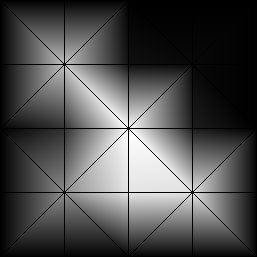
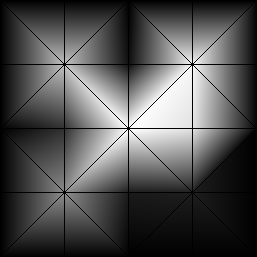
Adding EdgeSplitters

diff --git a/src/main/java/com/tgelder/downhill/Mesh.java b/src/main/java/com/tgelder/downhill/Mesh.java
@@ -1,13 +1,13 @@
 package com.tgelder.downhill;
 
-import java.util.Random;
+import com.tgelder.downhill.edgesplitters.EdgeSplitter;
 
 import lombok.Getter;
 
 public class Mesh {
 
-  static final float MAX_VALUE = Float.MAX_VALUE;
-  static final float MIN_VALUE = Float.MIN_VALUE;
+  public static final float MAX_VALUE = Float.MAX_VALUE;
+  public static final float MIN_VALUE = Float.MIN_VALUE;
   
   @Getter
   private final int width;
@@ -71,7 +71,16 @@ public class Mesh {
     return out;
   }
   
-  public Mesh split(RNG rng) {
+  public EdgeCase getEdgeCaseAt(int x, int y) {
+    for (EdgeCase edgeCase : EdgeCase.values()) {
+      if (edgeCase.appliesAt(x, y)) {
+        return edgeCase;
+      }
+    }
+    return null;
+  }
+  
+  public Mesh split(EdgeSplitter xSplitter, EdgeSplitter ySplitter, EdgeSplitter zSplitter) {
     int oWidth = width*2 - 1;
     int ox = 0;
     int oy = 0;
@@ -79,16 +88,14 @@ public class Mesh {
     Mesh out = new Mesh(oWidth);
     
     EdgeIterator iterator = new EdgeIterator(this);
-    MeshEdge edge;
+    CasedMeshEdge edge;
     
     while (iterator.hasNext()) {
       edge = iterator.next();
-      
-      float r = rng.getNext();
-      
-      out.setX(ox, oy, (edge.getA().getX()/2f + edge.getB().getX()/2f));
-      out.setY(ox, oy, (edge.getA().getY()/2f + edge.getB().getY()/2f));
-      out.setZ(ox, oy, (edge.getA().getZ()*r + edge.getB().getZ()*(1 - r)));
+            
+      out.setX(ox, oy, xSplitter.split(edge));
+      out.setY(ox, oy, ySplitter.split(edge));
+      out.setZ(ox, oy, zSplitter.split(edge));
 
       ox++;
       if (ox==oWidth) {
@@ -100,5 +107,6 @@ public class Mesh {
     
     return out;
   }
+  
 
 }

diff --git a/src/main/java/com/tgelder/downhill/App.java b/src/main/java/com/tgelder/downhill/App.java
@@ -5,6 +5,10 @@ import java.io.IOException;
 import java.util.Arrays;
 import java.util.List;
 
+import com.tgelder.downhill.edgesplitters.EdgeSplitter;
+import com.tgelder.downhill.edgesplitters.MidpointEdgeSplitter;
+import com.tgelder.downhill.edgesplitters.RandomEdgeSplitter;
+import com.tgelder.downhill.edgesplitters.SubpeakEdgeSplitter;
 import com.tgelder.downhill.image.AWTImage;
 import com.tgelder.downhill.image.Image;
 
@@ -33,25 +37,31 @@ public class App {
     
     RandomRNG rng = new RandomRNG(1986);
     
-    mesh = mesh.split(rng);
+    EdgeSplitter xSplitter = new MidpointEdgeSplitter(MeshPoint::getX);
+    EdgeSplitter ySplitter = new MidpointEdgeSplitter(MeshPoint::getY);
+    EdgeSplitter zSplitter = new SubpeakEdgeSplitter(rng);
+    
+    mesh = mesh.split(xSplitter, ySplitter, zSplitter);
     
     triangleRenderer.render(mesh, image);
     lineRenderer.render(mesh, image);
     image.save("images/mesh5");
     
-    mesh = mesh.split(rng);
+    mesh = mesh.split(xSplitter, ySplitter, zSplitter);
     
     triangleRenderer.render(mesh, image);
     lineRenderer.render(mesh, image);
     image.save("images/mesh9");
     
-    mesh = mesh.split(rng);
+    mesh = mesh.split(xSplitter, ySplitter, zSplitter);
     
     triangleRenderer.render(mesh, image);
     lineRenderer.render(mesh, image);
     image.save("images/mesh17");
     
-    mesh = mesh.split(rng).split(rng).split(rng).split(rng);
+    for (int i=0; i<4; i++) {
+      mesh = mesh.split(xSplitter, ySplitter, zSplitter);
+    }
     
     triangleRenderer.render(mesh, image);
     image.save("images/mesh257");

diff --git a/src/main/java/com/tgelder/downhill/edgesplitters/SubpeakEdgeSplitter.java b/src/main/java/com/tgelder/downhill/edgesplitters/SubpeakEdgeSplitter.java
@@ -1,0 +1,53 @@
+package com.tgelder.downhill.edgesplitters;
+
+import com.tgelder.downhill.CasedMeshEdge;
+import com.tgelder.downhill.Mesh;
+import com.tgelder.downhill.MeshPoint;
+import com.tgelder.downhill.RNG;
+
+public class SubpeakEdgeSplitter implements EdgeSplitter {
+
+  private final RNG rng;
+  
+  private Mesh mesh;
+  private MeshPoint a;
+  private MeshPoint b;
+  private MeshPoint c;
+  private MeshPoint d;
+  private float min, max;
+  private float r;
+  
+  public SubpeakEdgeSplitter(RNG rng) {
+    this.rng = rng;
+  }
+
+  @Override
+  public float split(CasedMeshEdge edge) {
+    
+    a = edge.getA();
+    b = edge.getB();
+    
+    mesh = a.getMesh();
+    c = new MeshPoint(mesh);
+    d = new MeshPoint(mesh); //TODO
+    c.set(a.getMx(), b.getMy());
+    d.set(b.getMx(), a.getMy());
+    
+    min = Math.min(a.getZ(), b.getZ());
+    max = Math.max(a.getZ(), b.getZ());
+    
+    switch(edge.getEdgeCase()) {
+      case BACKSLASH:
+      case FORWARDSLASH:
+        max = Mesh.MAX_VALUE;
+        break;
+      default:
+        break;
+    }
+    
+    r = rng.getNext();
+    
+    return min * r + max * (1 - r);
+    
+  }
+}

diff --git a/src/main/java/com/tgelder/downhill/EdgeIterator.java b/src/main/java/com/tgelder/downhill/EdgeIterator.java
@@ -4,12 +4,14 @@ import java.util.Iterator;
 
 public class EdgeIterator implements Iterator<CasedMeshEdge> {
 
+  private final Mesh mesh;
   private final CasedMeshEdge casedMeshEdge;
   private int x;
   private int y;
   private final int width;
   
   EdgeIterator(Mesh mesh) {
+    this.mesh = mesh;
     casedMeshEdge = new CasedMeshEdge(mesh);
     width = mesh.getWidth() * 2 - 1;
   }
@@ -29,21 +31,14 @@ public class EdgeIterator implements Iterator<CasedMeshEdge> {
 
   @Override
   public CasedMeshEdge next() {
-    getEdgeCaseAt(x, y).setEdge(casedMeshEdge, x, y);
+    mesh.getEdgeCaseAt(x, y).setEdge(casedMeshEdge, x, y);
 
     iterate();
 
     return casedMeshEdge;
   }
 
-  private EdgeCase getEdgeCaseAt(int x, int y) {
-    for (EdgeCase edgeCase : EdgeCase.values()) {
-      if (edgeCase.appliesAt(x, y)) {
-        return edgeCase;
-      }
-    }
-    return null;
-  }
+ 
   
 
 }

diff --git a/src/test/java/com/tgelder/downhill/MeshTest.java b/src/test/java/com/tgelder/downhill/MeshTest.java
@@ -4,6 +4,10 @@ import static org.junit.Assert.assertEquals;
 
 import org.junit.Test;
 
+import com.tgelder.downhill.edgesplitters.EdgeSplitter;
+import com.tgelder.downhill.edgesplitters.MidpointEdgeSplitter;
+import com.tgelder.downhill.edgesplitters.RandomEdgeSplitter;
+
 public class MeshTest {
   
   private static final float PRECISION = 0.00001f;
@@ -62,7 +66,11 @@ public class MeshTest {
     numbers[17] = 0.7f;
     numbers[18] = 1.0f;
     
-    Mesh split = Mesh.of3x3().split(new MockRNG(numbers));
+    EdgeSplitter xSplitter = new MidpointEdgeSplitter(MeshPoint::getX);
+    EdgeSplitter ySplitter = new MidpointEdgeSplitter(MeshPoint::getY);
+    EdgeSplitter zSplitter = new RandomEdgeSplitter(new MockRNG(numbers), MeshPoint::getZ);
+    
+    Mesh split = Mesh.of3x3().split(xSplitter, ySplitter, zSplitter);
     
     float[] expected = new float[25];
     

diff --git a/src/main/java/com/tgelder/downhill/edgesplitters/RandomEdgeSplitter.java b/src/main/java/com/tgelder/downhill/edgesplitters/RandomEdgeSplitter.java
@@ -1,0 +1,28 @@
+package com.tgelder.downhill.edgesplitters;
+
+import java.util.function.Function;
+
+import com.tgelder.downhill.CasedMeshEdge;
+import com.tgelder.downhill.MeshPoint;
+import com.tgelder.downhill.RNG;
+
+import lombok.AllArgsConstructor;
+
+@AllArgsConstructor
+public class RandomEdgeSplitter implements EdgeSplitter {
+
+  private final RNG rng;
+  private final Function<MeshPoint, Float> axis;
+  private float r;
+  
+  public RandomEdgeSplitter(RNG rng, Function<MeshPoint, Float> axis) {
+    this.rng = rng;
+    this.axis = axis;
+  }
+
+  public float split(CasedMeshEdge edge) {
+    r = rng.getNext();
+    return axis.apply(edge.getA()) * r + axis.apply(edge.getB()) * (1 - r);
+  }
+
+}

diff --git a/src/main/java/com/tgelder/downhill/edgesplitters/MidpointEdgeSplitter.java b/src/main/java/com/tgelder/downhill/edgesplitters/MidpointEdgeSplitter.java
@@ -1,0 +1,19 @@
+package com.tgelder.downhill.edgesplitters;
+
+import java.util.function.Function;
+
+import com.tgelder.downhill.CasedMeshEdge;
+import com.tgelder.downhill.MeshPoint;
+
+import lombok.AllArgsConstructor;
+
+@AllArgsConstructor
+public class MidpointEdgeSplitter implements EdgeSplitter {
+  
+  private final Function<MeshPoint, Float> axis;
+  
+  public float split(CasedMeshEdge edge) {
+    return axis.apply(edge.getA())/2f + axis.apply(edge.getB())/2f;
+  }
+
+}

diff --git a/src/main/java/com/tgelder/downhill/edgesplitters/EdgeSplitter.java b/src/main/java/com/tgelder/downhill/edgesplitters/EdgeSplitter.java
@@ -1,0 +1,9 @@
+package com.tgelder.downhill.edgesplitters;
+
+import com.tgelder.downhill.CasedMeshEdge;
+
+public interface EdgeSplitter {
+  
+  public float split(CasedMeshEdge edge);
+
+}

diff --git a/src/main/java/com/tgelder/downhill/EdgeCase.java b/src/main/java/com/tgelder/downhill/EdgeCase.java
@@ -65,7 +65,6 @@ public enum EdgeCase{
     }
   };
   
-
   abstract boolean appliesAt(int x, int y);
 
   abstract void setEdge(CasedMeshEdge meshEdge, int x, int y);

diff --git a/src/main/java/com/tgelder/downhill/geometry/Point.java b/src/main/java/com/tgelder/downhill/geometry/Point.java
@@ -80,5 +80,5 @@ public class Point {
   public Point copy(Point other) {
     return set(other.x, other.y, other.z);
   }
-
+  
 }
